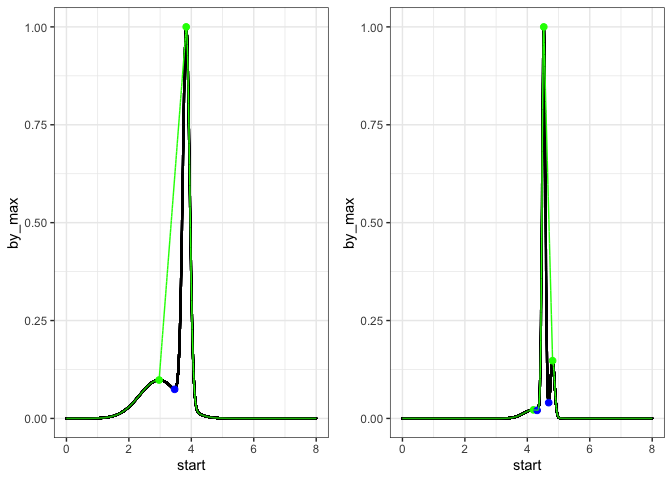
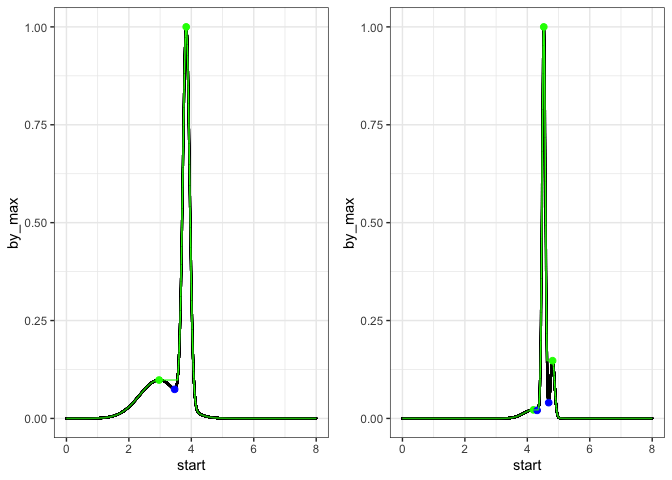
conservative erosion/padding

Changed region(s): [[0.2188, 0.0938, 0.2812, 0.7812], [0.8125, 0.3438, 0.8438, 0.75]]

diff --git a/analysis/reports/toy_p.md b/analysis/reports/toy_p.md
@@ -85,16 +85,28 @@ erode <- function(integrated_density_list) {
 maxima <- this_intd%>%
   filter(start_is_peak)
 
+this_intd$by_max_eroded <- this_intd$by_max
+
 for(i in 1:(nrow(maxima) - 1)) {
-  rise <- maxima$by_max[i+1] - maxima$by_max[i]
+  # rise <- maxima$by_max[i+1] - maxima$by_max[i]
   begin <- maxima$start[i]
   end <- maxima$start[i + 1]
-  run <- end - begin
-  slope <- rise / run
-  this_intd <-this_intd %>%
-    mutate(by_max_eroded = ifelse(between(start, begin, end),
-                           maxima$by_max[i] + (slope * (start - begin)), 
-                           by_max))
+  # run <- end - begin
+  # slope <- rise / run
+  # this_intd <-this_intd %>%
+  #   mutate(by_max_eroded = ifelse(between(start, begin, end),
+  #                          maxima$by_max[i] + (slope * (start - begin)), 
+  #                          by_max)) %>%
+  #   mutate(by_max_eroded = ifelse(by_max > by_max_eroded,
+  #                                 by_max,
+  #                                 by_max_eroded))
+  
+  lower_peak <- min(maxima$by_max[i], maxima$by_max[i + 1])
+  
+  a <- which(between(this_intd$start, begin, end))
+  b <- which(this_intd$by_max_eroded < lower_peak)
+  
+  this_intd$by_max_eroded [ a[which(a %in% b)]] <- lower_peak
 }
 
 integrated_density_list$integrated_density <- this_intd
@@ -136,13 +148,13 @@ sim_width <- get_eroded_width(sim_eroded)
 sim_diff
 ```
 
-    ## [1] 830.0194
+    ## [1] 106.3842
 
 ``` r
 sim_diff/sim_width
 ```
 
-    ## [1] 0.2939162
+    ## [1] 0.03302832
 
 ``` r
 e_diff <- get_eroded_diff(empirical_eroded)
@@ -151,10 +163,58 @@ e_width <- get_eroded_width(empirical_eroded)
 e_diff
 ```
 
-    ## [1] 2818.357
+    ## [1] 61.87787
 
 ``` r
 e_diff /e_width
 ```
 
-    ## [1] 0.3245086
+    ## [1] 0.01051808
+
+``` r
+sim_d <- sim_eroded$integrated_density$by_max_eroded - 
+  sim_eroded$integrated_density$by_max
+
+sim_d[ which(sim_eroded$integrated_density$start_is_pit)]
+```
+
+    ## [1] 0.001167257 0.107205618
+
+``` r
+sim_d <- sim_d[ which(sim_d > 0)]
+
+emp_d <- empirical_eroded$integrated_density$by_max_eroded -
+  empirical_eroded$integrated_density$by_max
+
+emp_d[ which(empirical_eroded$integrated_density$start_is_pit)]
+```
+
+    ## [1] 0.02376185
+
+``` r
+emp_d <- emp_d[ which(emp_d > 0)]
+
+mean(sim_d)
+```
+
+    ## [1] 0.03302832
+
+``` r
+sd(sim_d)
+```
+
+    ## [1] 0.04028002
+
+``` r
+mean(emp_d)
+```
+
+    ## [1] 0.01051808
+
+``` r
+sd(emp_d)
+```
+
+    ## [1] 0.008188289
+
+try depth?
